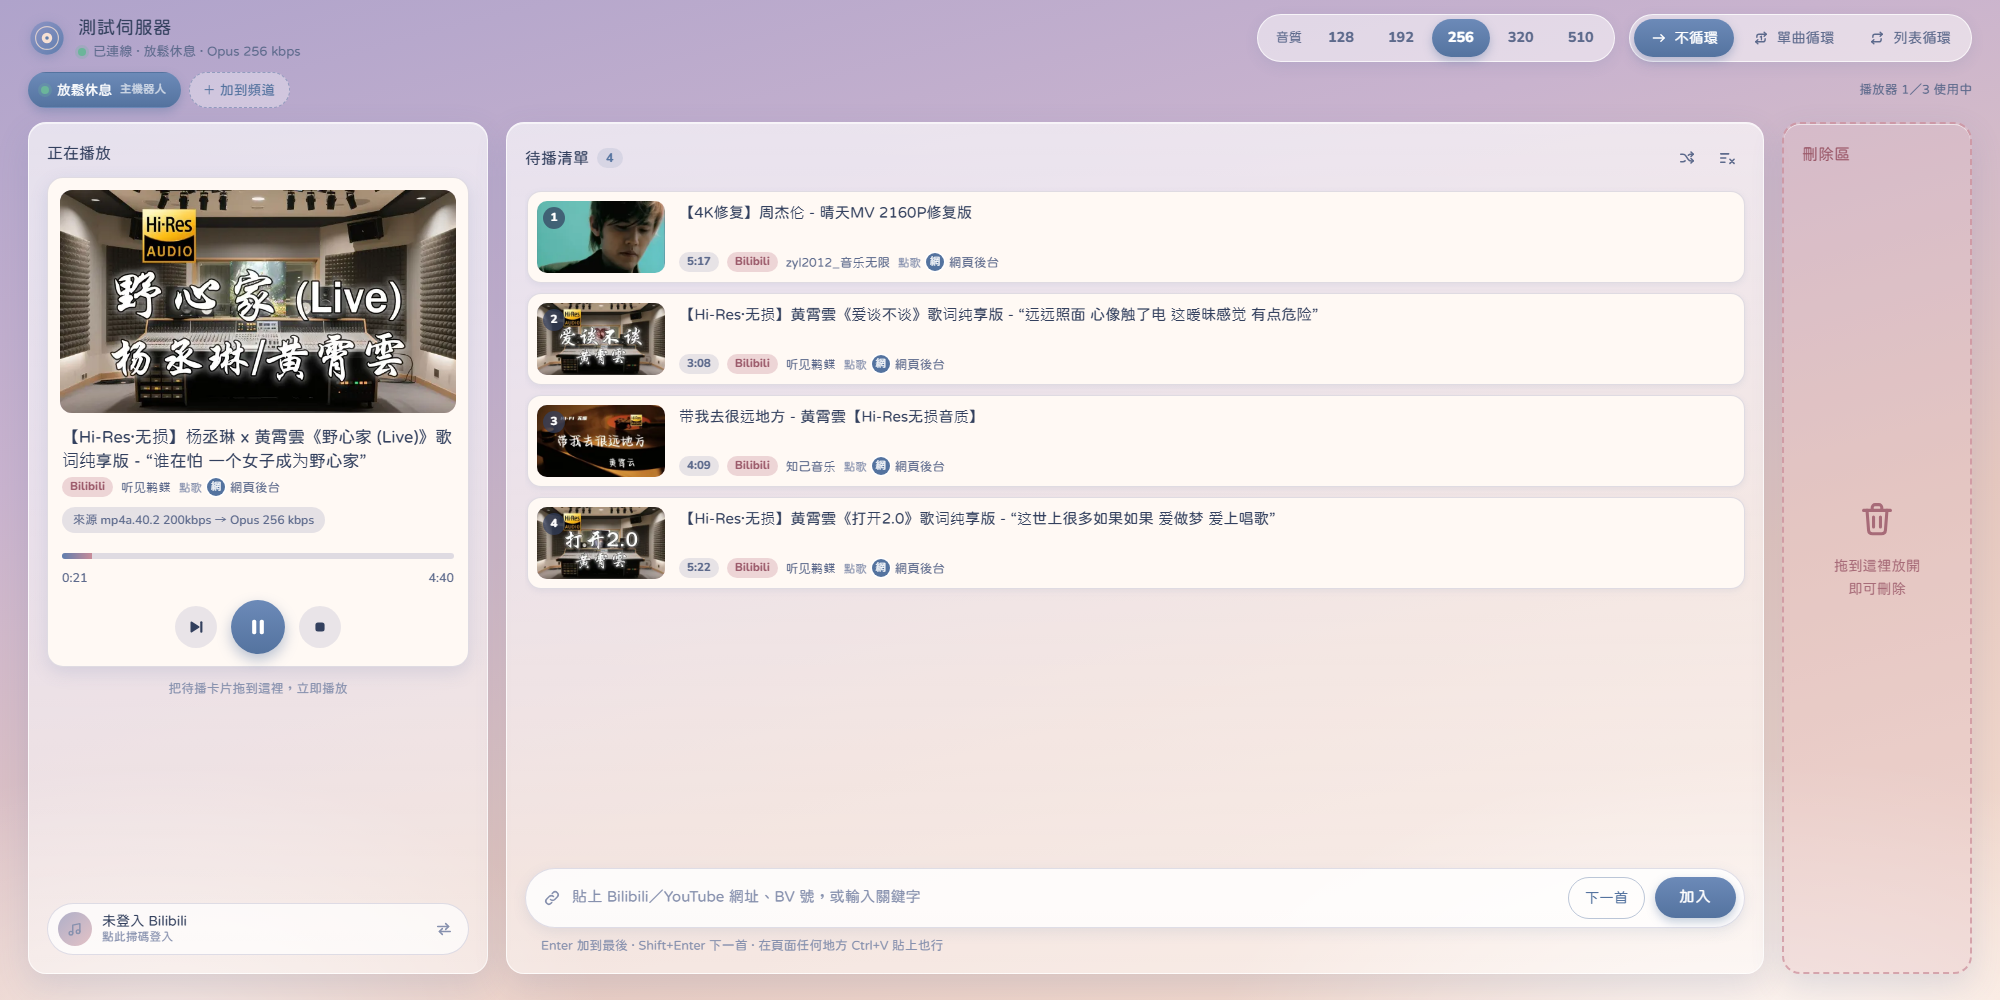
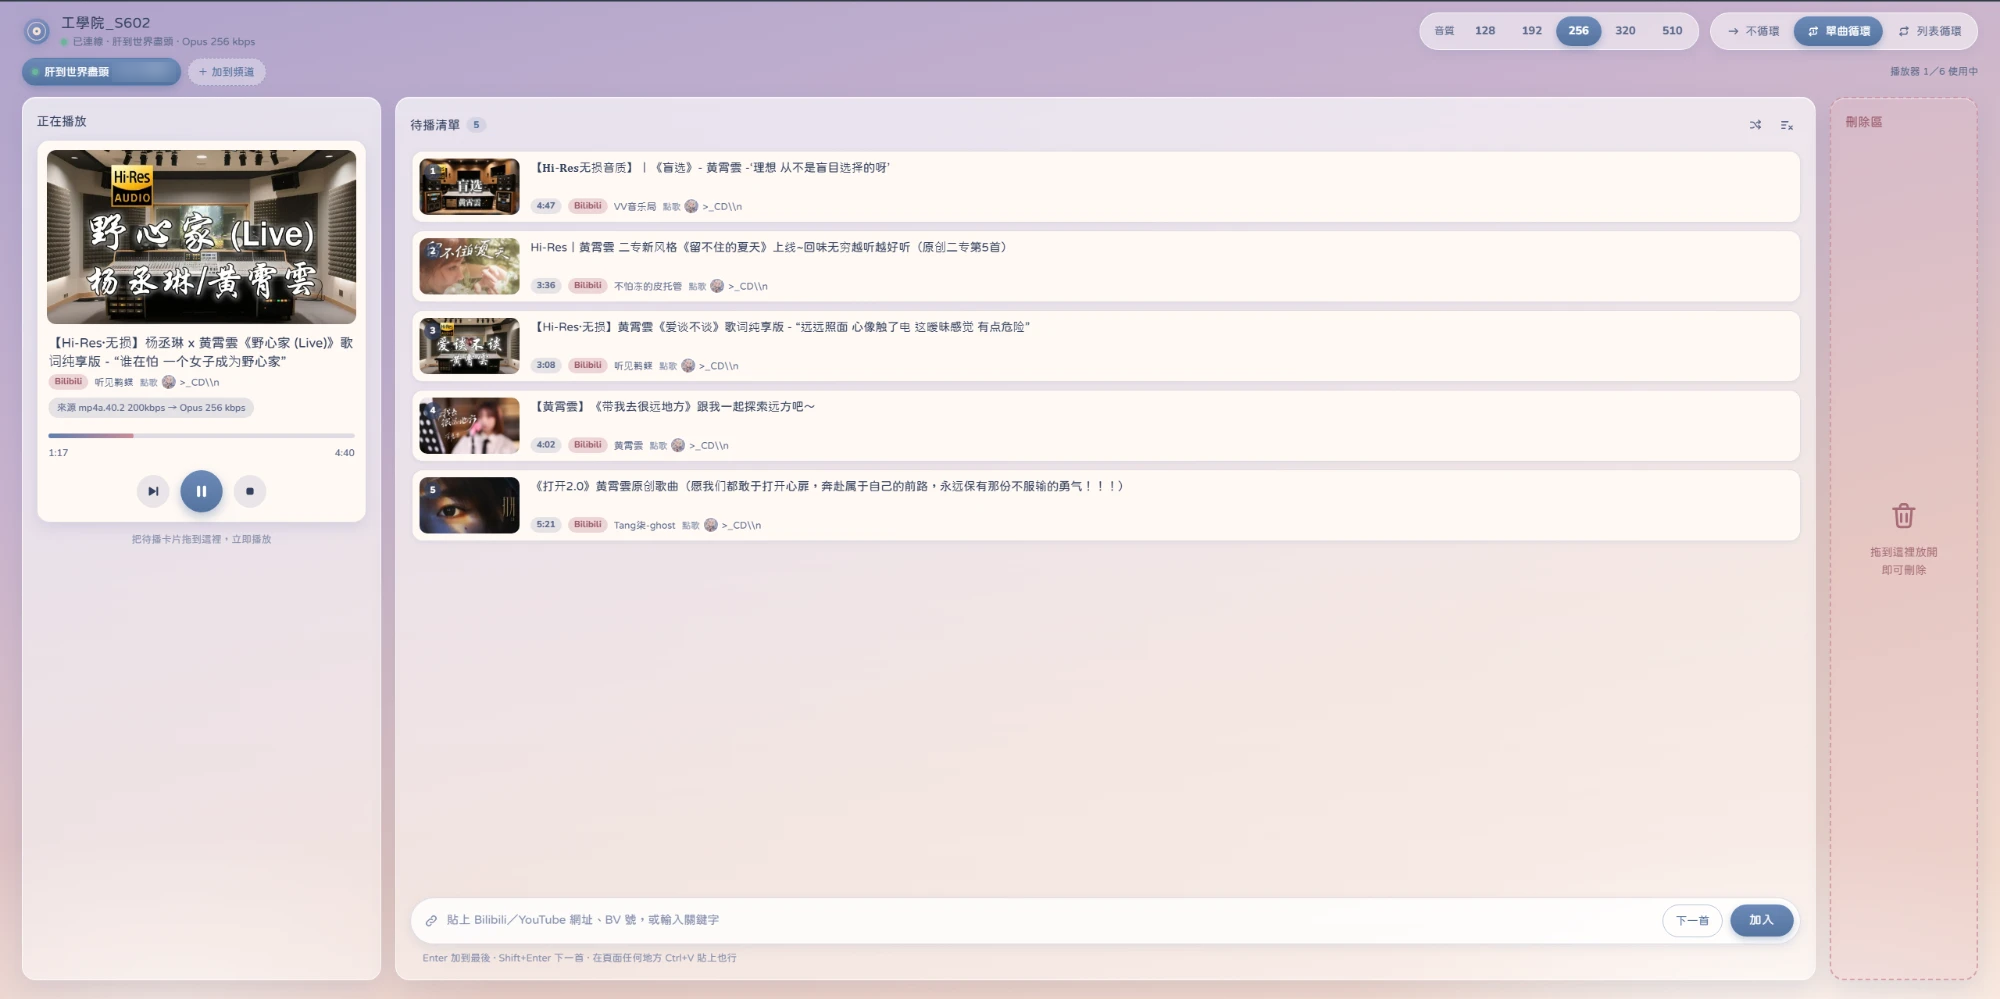
Add the real dashboard screenshot (Bilibili account name blurred), keep the demo-data one

Changed region(s): [[0.0, 0.0, 0.992, 0.993], [0.093, 0.5896, 0.155, 0.6517]]

diff --git a/README.md b/README.md
@@ -6,7 +6,10 @@
 yt-dlp 取最高品質音軌 給 ffmpeg 轉成 Opus 再給 Discord；另附 trello 風格的網頁看板，看板同頻道的朋友也可以用哦(需要用到 VPS )
 
 ![中控台 / Dashboard](docs/images/dashboard.png)
-<sub>中控台畫面（用測試用的假資料截圖）/ the dashboard (screenshot with demo data)</sub>
+<sub>中控台實際使用的畫面（個人資訊已模糊處理）/ the dashboard in real use (personal info blurred)</sub>
+
+![中控台 demo / Dashboard demo](docs/images/dashboard-demo.png)
+<sub>用測試用的假資料截圖，可以自己跑 `tests/harness_hub.py` 重現 / screenshot with demo data, reproducible with `tests/harness_hub.py`</sub>
 
 ## English summary
 
